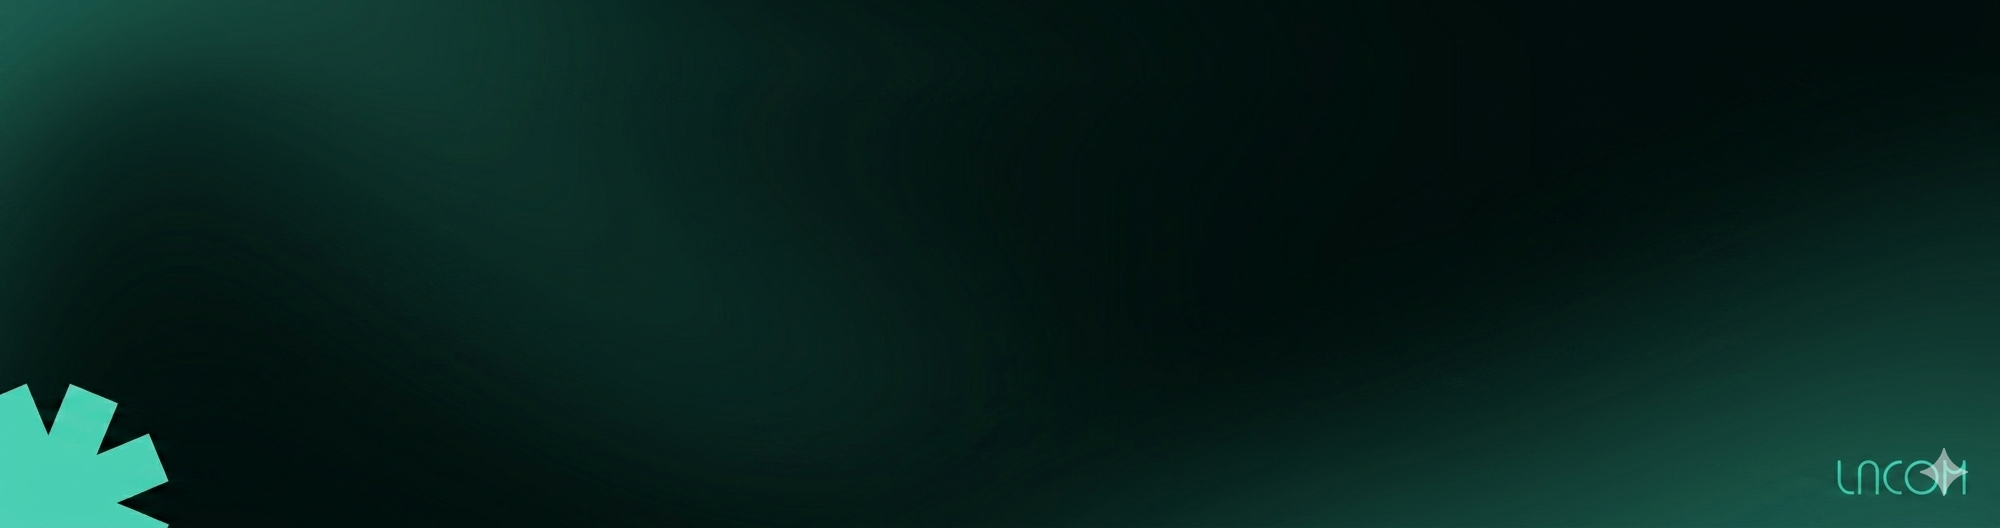
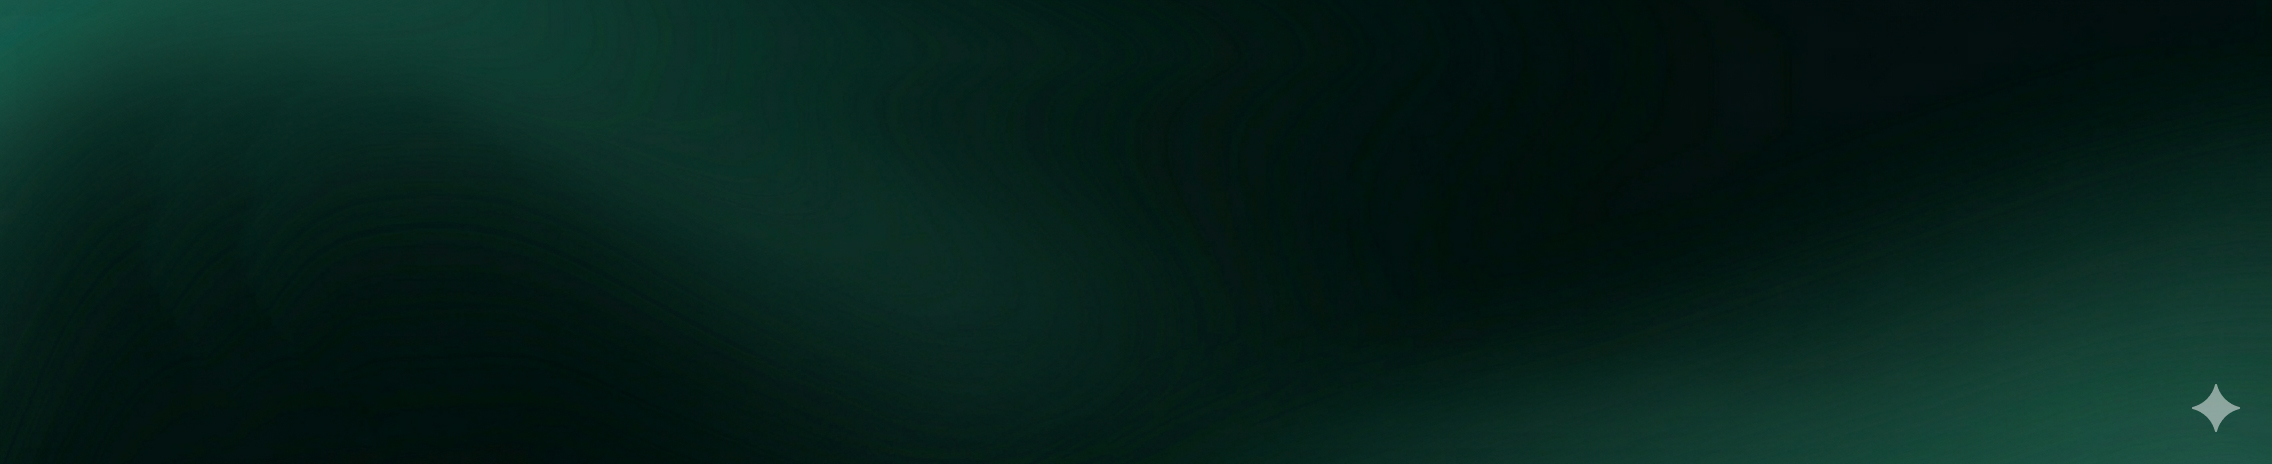
Mudança de pastas, cover e direcionamento de saída dos pdfs

Changed region(s): [[0.0, 0.7241, 0.093, 1.0], [0.899, 0.8448, 0.992, 0.9353]]

diff --git a/streamlit_app.py b/streamlit_app.py
@@ -372,19 +372,31 @@ with aba_cert:
 
         st.divider()
 
+        pasta_destino = st.text_input(
+            "Pasta de destino (deixe em branco para usar 'saidas/' e 'pdfs/')",
+            value="",
+            key="pasta_destino"
+        )
+
         if st.button("Gerar Certificados", key="btn_cert"):
 
             textos = gerar_textos(df, coluna_nome, texto_padrao)
 
             nome_base = os.path.splitext(arquivo.name)[0]
             nome_saida = f"saida_{nome_base}.xlsx"
-            caminho_saida = os.path.join("saidas", nome_saida)
+
+            if pasta_destino.strip():
+                caminho_saida = os.path.join(pasta_destino, nome_saida)
+                pdf_dir = pasta_destino
+            else:
+                caminho_saida = os.path.join("saidas", nome_saida)
+                pdf_dir = None
 
             exportar_excel(textos, caminho_saida)
 
             if gerar_pdfs:
                 for texto, nome in zip(textos, df[coluna_nome]):
-                    gerar_pdf(nome, texto, signature_path=sig_path)
+                    gerar_pdf(nome, texto, signature_path=sig_path, output_dir=pdf_dir)
 
             # Historico
             historico_path = os.path.join(

diff --git a/formatador.py b/formatador.py
@@ -251,10 +251,14 @@ def gerar_pdf(
     nome,
     texto,
     signature_path=None,
-    bg_path=None
+    bg_path=None,
+    output_dir=None
 ):
 
-    os.makedirs("pdfs", exist_ok=True)
+    if output_dir is None:
+        output_dir = "pdfs"
+
+    os.makedirs(output_dir, exist_ok=True)
 
     nome = nome.strip() if nome else ""
     if not nome:
@@ -263,7 +267,7 @@ def gerar_pdf(
     if not nome_arquivo.strip("._ "):
         nome_arquivo = "SemNome"
 
-    caminho_pdf = os.path.join("pdfs", f"{nome_arquivo}.pdf")
+    caminho_pdf = os.path.join(output_dir, f"{nome_arquivo}.pdf")
 
     # Registra fontes
     font_body, font_bold = _registrar_fontes()